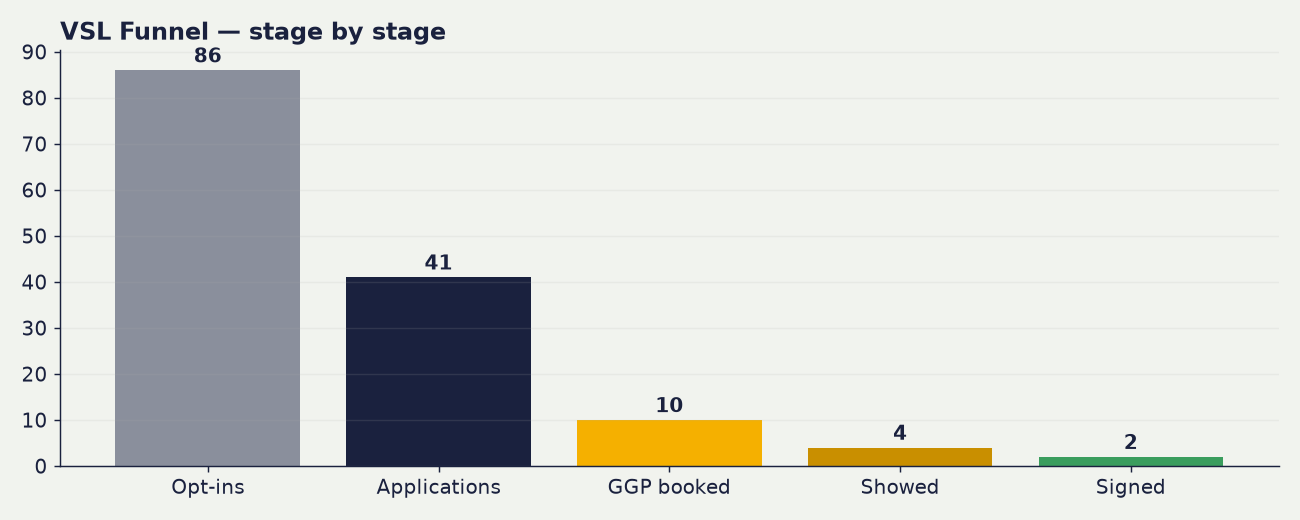
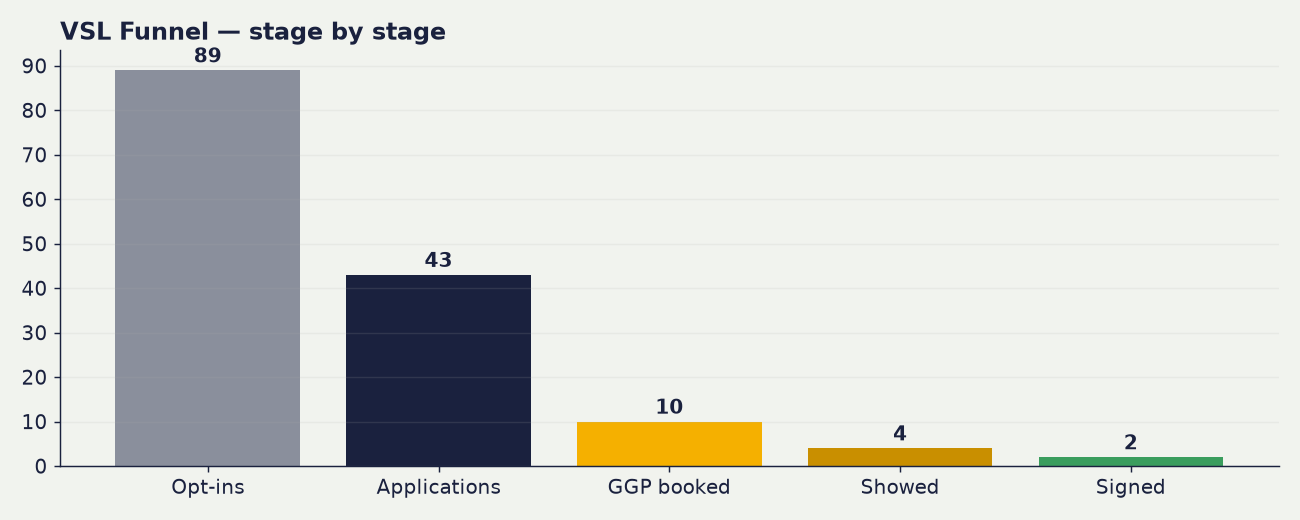
nightly dashboard update 2026-08-10 04:00

diff --git a/content/index.md b/content/index.md
@@ -1,6 +1,6 @@
 # 📈 VSL Funnel Dashboard
 
-_Live from the VSL Applications tracker + Meta. Last updated: 9 Aug 2026, 04:00 BST. Rebuilds nightly._
+_Live from the VSL Applications tracker + Meta. Last updated: 10 Aug 2026, 04:00 BST. Rebuilds nightly._
 
 > Funnel window from 2026-07-07. Attribution = your team's funnel-stage ticks on the Applications tab (the source of truth).
 
@@ -10,9 +10,9 @@ _Live from the VSL Applications tracker + Meta. Last updated: 9 Aug 2026, 04:00 
 
 | Metric | Value |
 |---|---|
-| 💷 Spent | **£2,058.63** |
-| 👀 Opt-ins | **86** |
-| 📝 Applications | **41** |
+| 💷 Spent | **£2,123.85** |
+| 👀 Opt-ins | **89** |
+| 📝 Applications | **43** |
 | 📞 GGPs booked | **10** |
 | ✅ Showed up | **4** |
 | 🤝 Signed | **2** (Tarik, Zeeshan) |
@@ -22,7 +22,7 @@ _Live from the VSL Applications tracker + Meta. Last updated: 9 Aug 2026, 04:00 
 | Step | Rate |
 |---|---|
 | Opt-in → Application | 48% |
-| Application → GGP booked | 24% |
+| Application → GGP booked | 23% |
 | GGP show rate | 40% |
 | Show → Sign | 50% |
 | Application → Sign | 5% |
@@ -31,15 +31,15 @@ _Live from the VSL Applications tracker + Meta. Last updated: 9 Aug 2026, 04:00 
 
 | Cost | Value |
 |---|---|
-| Cost per application | £50 |
-| Cost per GGP booked | £206 |
-| Cost per show-up | £515 |
-| **Cost per acquisition (CPA)** | **£1,029** |
+| Cost per application | £49 |
+| Cost per GGP booked | £212 |
+| Cost per show-up | £531 |
+| **Cost per acquisition (CPA)** | **£1,062** |
 
 ## Ad spend split
 
-- 🔥 Warm: £1,088.03
-- ❄ Cold: £970.60
+- 🔥 Warm: £1,134.84
+- ❄ Cold: £989.01
 
 ---
 
@@ -57,4 +57,4 @@ _Live from the VSL Applications tracker + Meta. Last updated: 9 Aug 2026, 04:00 
 > _Applications + GGP-booked are TRUE daily series (from submission timestamps). Opt-ins have no per-day source in the Opt-ins tab, so opt-ins appear as a total only, not a daily line._
 
 ---
-<!-- Auto-generated by the VSL dashboard nightly pipeline. Do not edit by hand. 9 Aug 2026, 04:00 BST -->
+<!-- Auto-generated by the VSL dashboard nightly pipeline. Do not edit by hand. 10 Aug 2026, 04:00 BST -->
